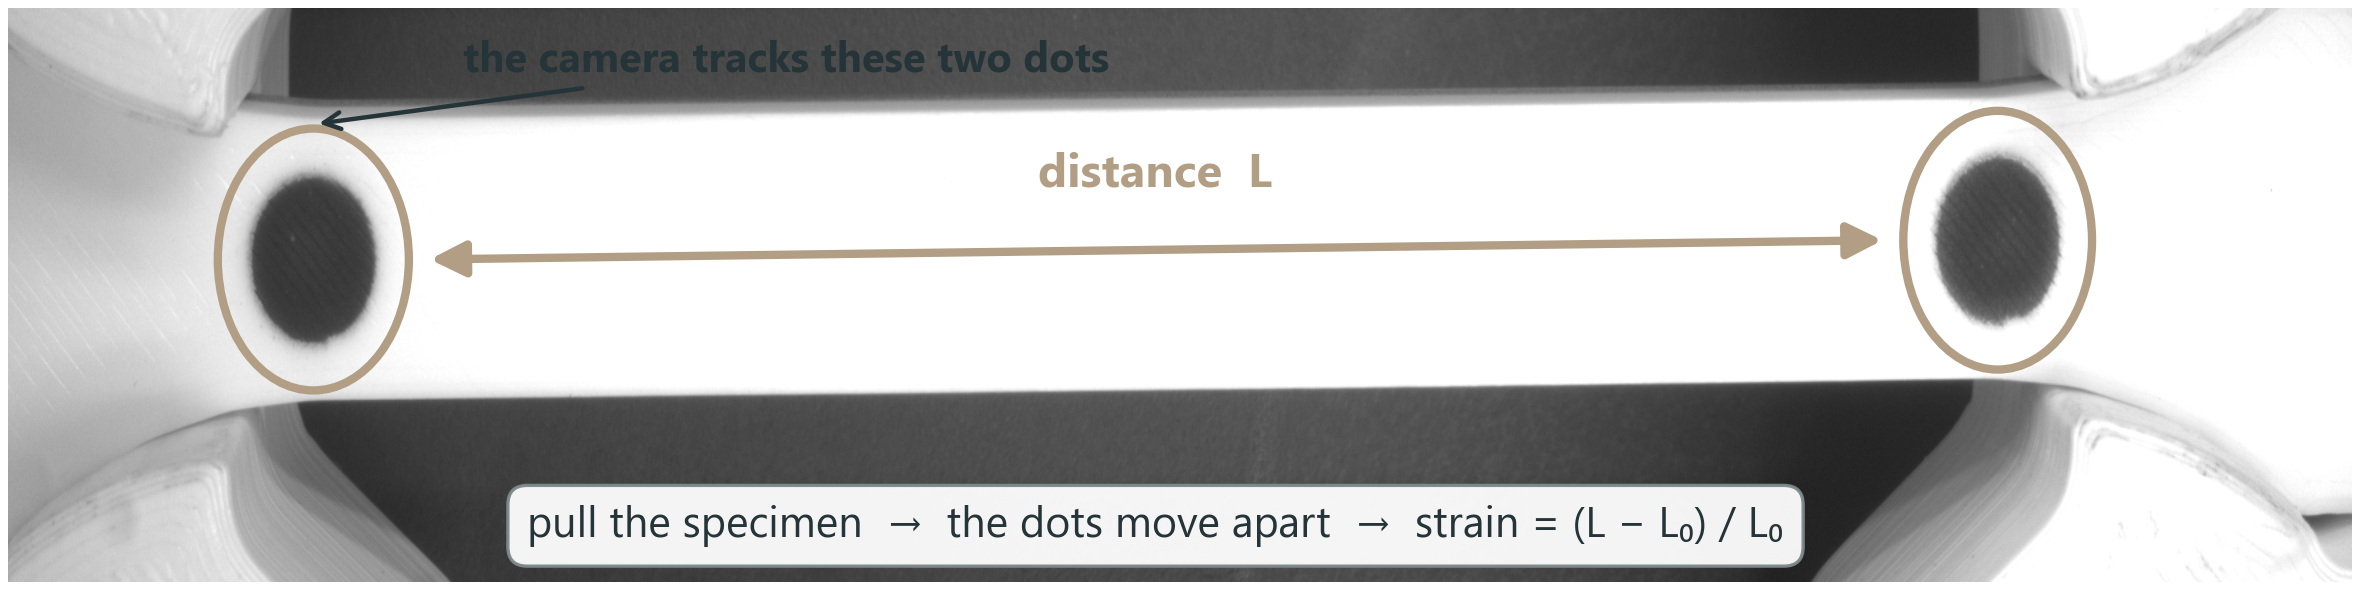
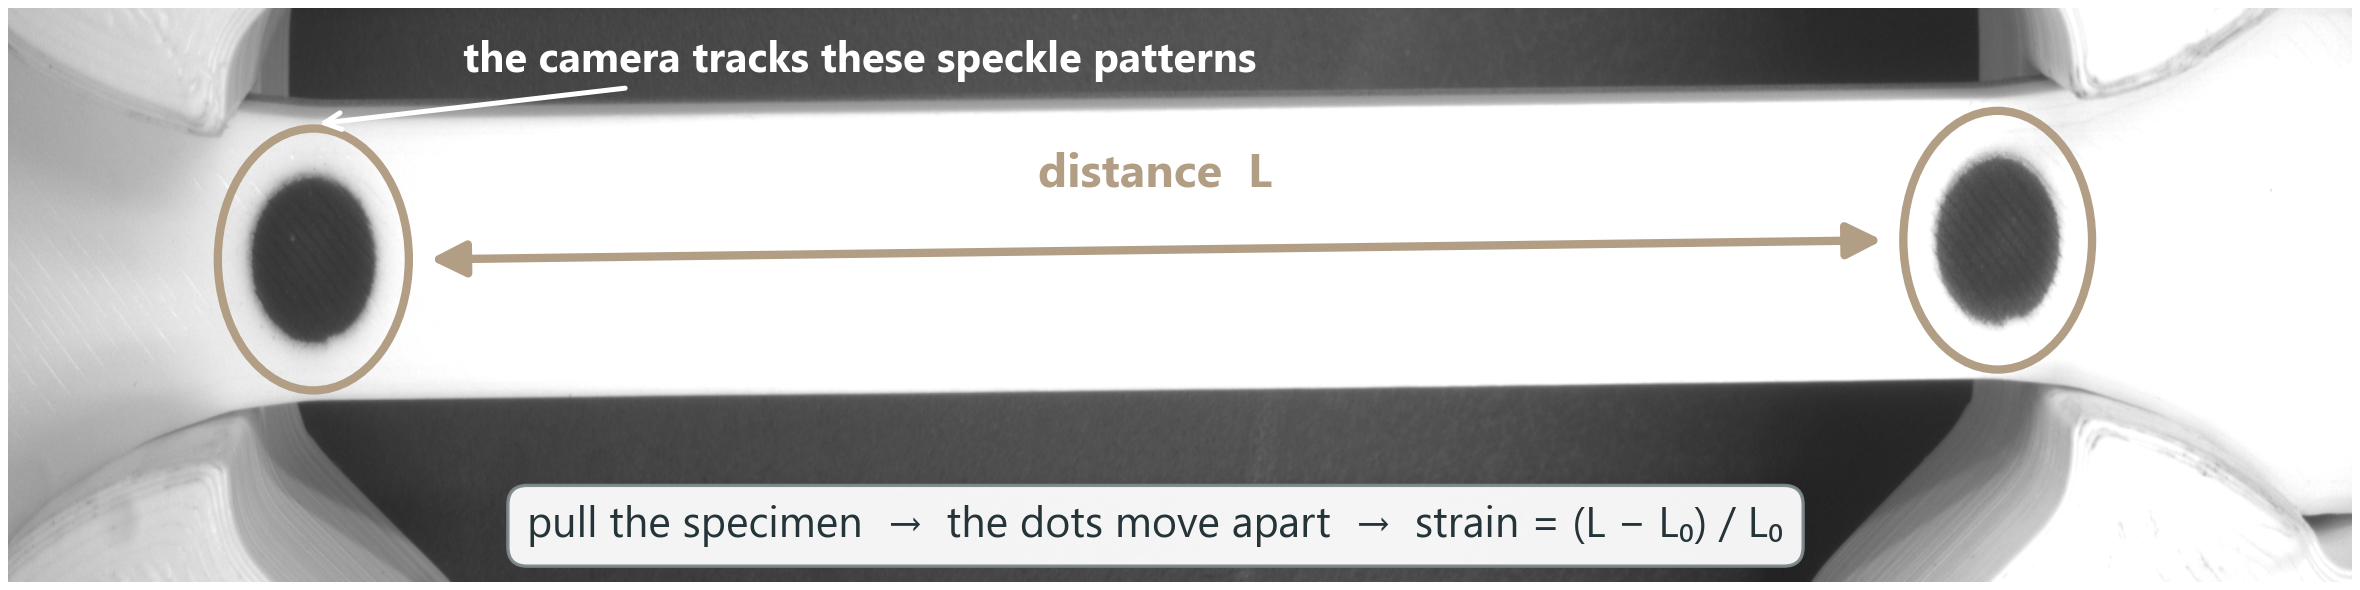
Slide 3 rework, staged: speckle-pattern label in white, plain-words cards
The label sat over the dark grip band in ink and vanished - white now, and
'speckle patterns' is his wording. Card 1 says plainly what touches nothing
(no glued strain gauge, no clip-on extensometer); card 2 drops the misleading
'no calibration' and leads with the live stress-strain curve. Generator synced,
including HIS third-card edit (Every frame captured), so a rebuild cannot
regress it. The deck itself is locked open in PowerPoint - the surgical apply
(ppd_slide3.py: image pixels in place, two runs reworded, shape untouched)
lands when he closes it.

Changed region(s): [[0.1856, 0.061, 0.5568, 0.122], [0.1856, 0.1525, 0.2784, 0.1831], [0.1237, 0.1831, 0.1856, 0.2136]]

diff --git a/documentation/scripts/ppd_final_deck.py b/documentation/scripts/ppd_final_deck.py
@@ -296,9 +296,14 @@ text(s, 0.85, 1.98, 11.6, 0.4,
      "DIC — Digital Image Correlation — measures how a part deforms by comparing photographs of its surface while it is loaded; here in its simplest two-dot form.",
      fs=12, colour=INK)
 pic(s, os.path.join(FIGS, "ppd_dic_explain.png"), 2.47, 2.52, 8.4, 2.45)
-_c = [("No contact", "nothing touches the specimen — no clip-on gauge to knock off at fracture"),
-      ("No calibration", "strain is a ratio of two pixel distances — mm per pixel cancels out"),
-      ("Every frame", "35 measurements per second, live on screen while the test runs")]
+# Reworded with him 2026-09-05 ("no clip?" - say plainly what touches nothing; "no calibration
+# is misleading" - lead with the live curve instead). The third card is HIS in-file edit, mirrored
+# here so a rebuild cannot regress it.
+_c = [("No contact", "no strain gauge glued on, no clip-on extensometer — nothing touches "
+      "the specimen"),
+      ("Live stress–strain", "the load cell gives force, the camera gives strain — the "
+      "stress–strain curve draws itself live during the pull"),
+      ("Every frame captured", "35 frames per second (FPS), live on screen while the test runs")]
 for i, (t, d) in enumerate(_c):
     x = 0.85 + i * 3.95
     card(s, x, 5.30, 3.70, 1.45)

diff --git a/documentation/scripts/ppd_figs.py b/documentation/scripts/ppd_figs.py
@@ -56,9 +56,12 @@ def fig_dic_explain():
         ax.add_patch(Circle((x, y), r * 1.55, fill=False, ec=TAN, lw=3.0))
     ax.add_patch(FancyArrowPatch((x1 + r1 * 1.8, y1), (x2 - r2 * 1.8, y2),
                                  arrowstyle="<|-|>", mutation_scale=26, color=TAN, lw=3.0))
-    ax.annotate("the camera tracks these two dots", xy=(x1, y1 - r1 * 1.6),
-                xytext=(x1 + 150, 46), fontsize=15, color=INK, fontweight="bold",
-                arrowprops=dict(arrowstyle="->", color=INK, lw=1.6))
+    # WHITE, because the label sits over the dark grip region at the top of the frame — ink on
+    # that background was invisible, which he caught on the slide. "Speckle patterns" is his
+    # wording for the sprayed markers.
+    ax.annotate("the camera tracks these speckle patterns", xy=(x1, y1 - r1 * 1.6),
+                xytext=(x1 + 150, 46), fontsize=15, color="white", fontweight="bold",
+                arrowprops=dict(arrowstyle="->", color="white", lw=1.8))
     ax.text((x1 + x2) / 2, (y1 + y2) / 2 - 46, "distance  L", fontsize=17,
             color=TAN, fontweight="bold", ha="center")
     ax.text((x1 + x2) / 2, g.shape[0] - 26,
